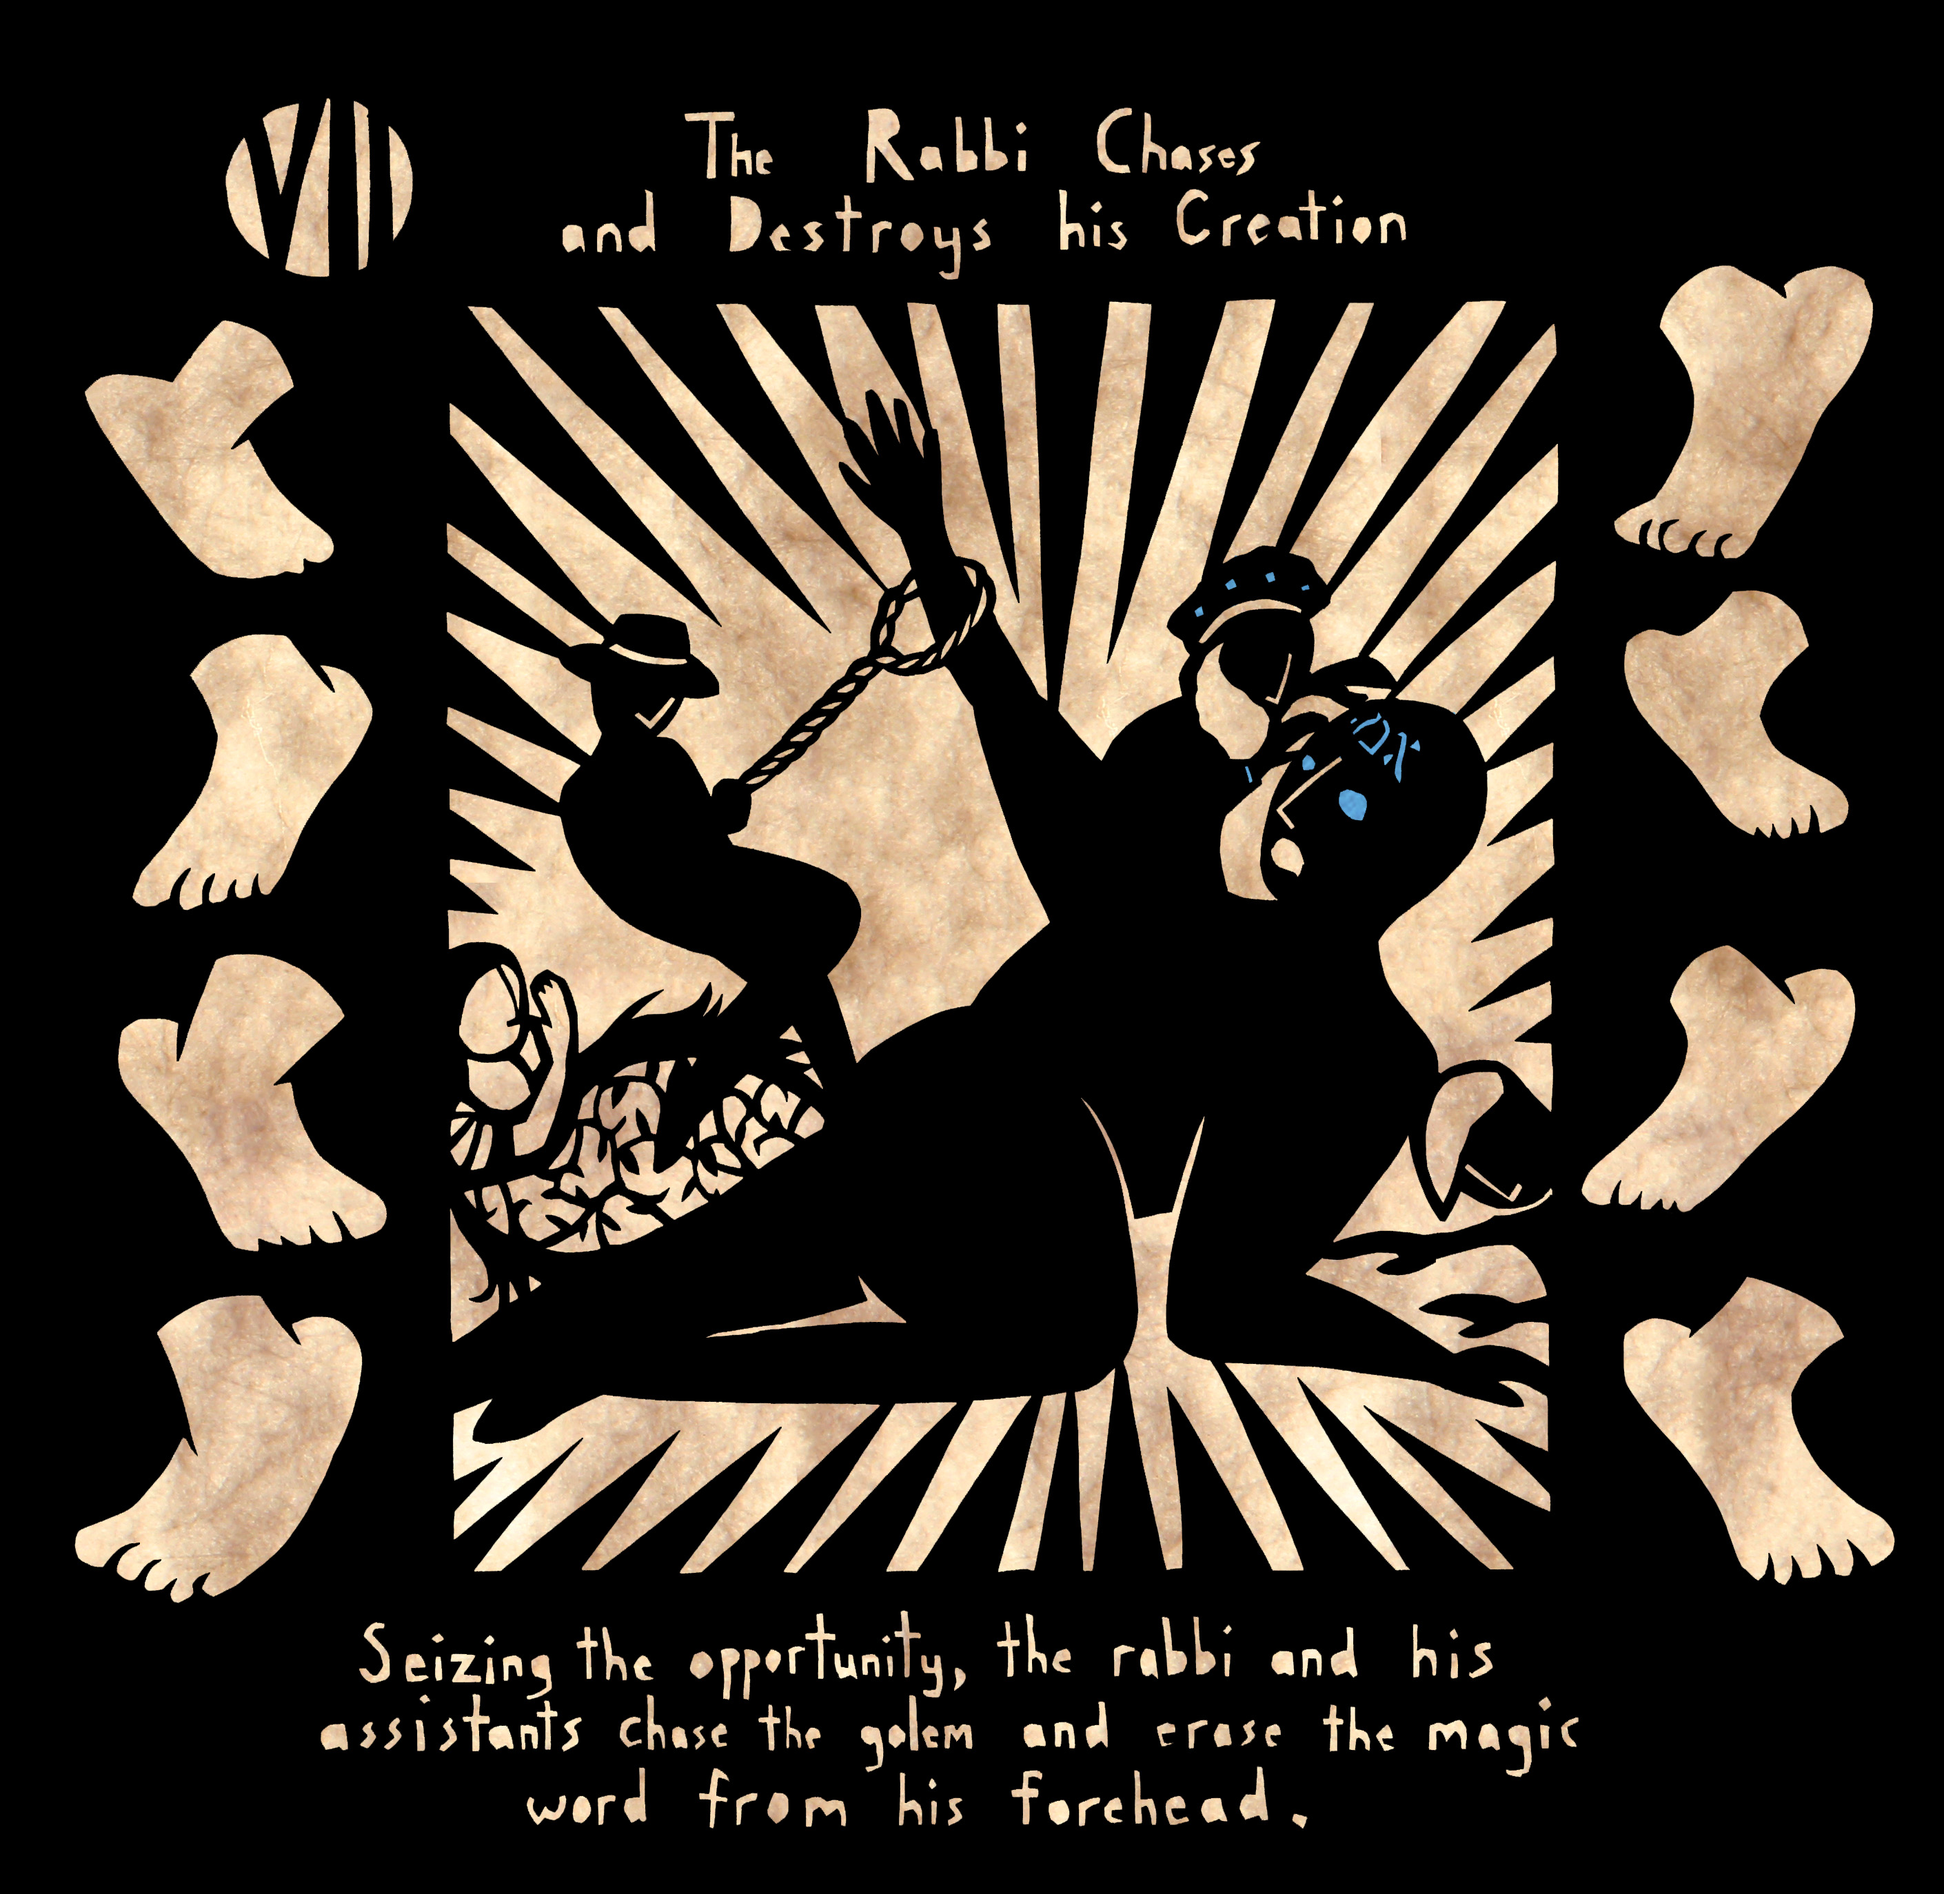
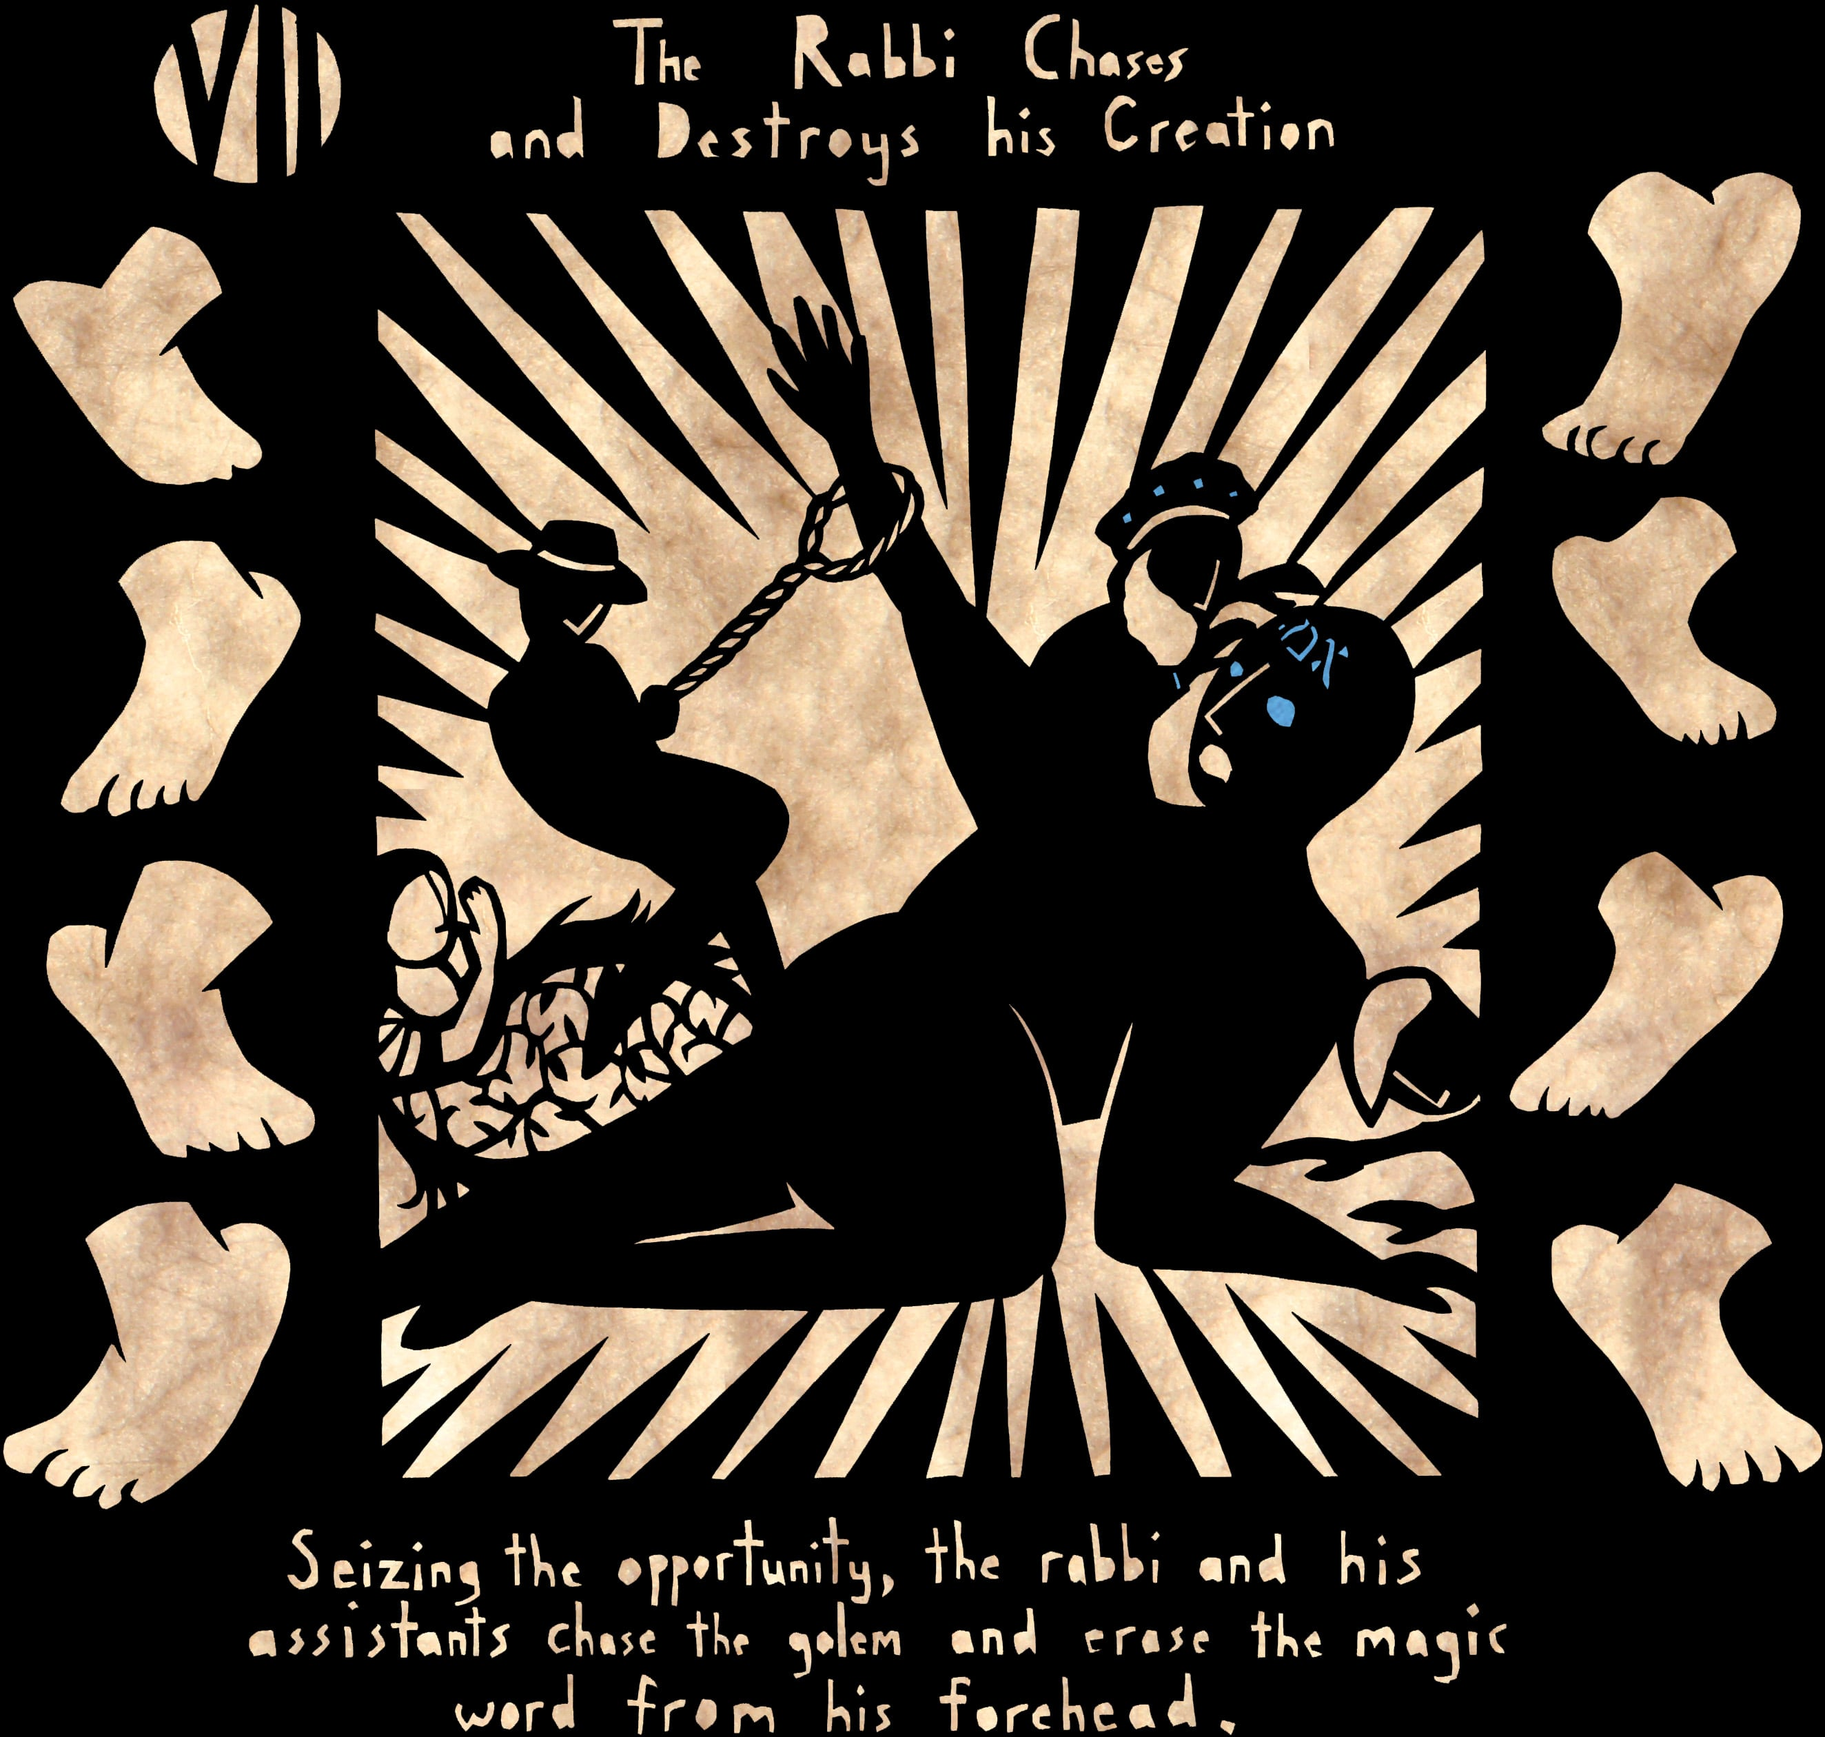
Change from dots to numerals and trim the panel assets

diff --git a/src/assets.js b/src/assets.js
@@ -1,0 +1,94 @@
+const SQUARESPACE_SONGS = [
+  {
+    name: "In Darkness, a Rabbi's Prayer",
+    audioUrl: "https://static1.squarespace.com/static/5457d939e4b0d5b75c105e2f/t/6667dd89490aca5d53b5ab95/1718082960021/1.mp3/original/1.mp3",
+    imageUrl: "https://images.squarespace-cdn.com/content/v1/5457d939e4b0d5b75c105e2f/15cfd1e3-85f7-4788-8f5d-b0f521b4808f/1.jpg?format=2500w",
+  },
+  {
+    name: "A Mysterious Stranger With An Extraordinary Idea",
+    audioUrl: "https://static1.squarespace.com/static/5457d939e4b0d5b75c105e2f/t/6667f1859338655ff42489c0/1718088074006/2.mp3/original/2.mp3",
+    imageUrl: "https://images.squarespace-cdn.com/content/v1/5457d939e4b0d5b75c105e2f/1957dae0-06c2-4751-9e29-1b8622cb936e/2.jpg?format=2500w"
+  },
+]
+
+const SQUARESPACE_MEDIA = {
+  cover: "https://images.squarespace-cdn.com/content/v1/5457d939e4b0d5b75c105e2f/1718089684782-CP1H25GQEBIG78E5HG11/cover.jpg?format=2500",
+  next: "/static/images/next.jpg",
+  play: "/static/images/play.jpg",
+  prev: "/static/images/prev.jpg",
+  pause: "/static/images/pause.jpg",
+}
+
+const STATIC_SONGS = [
+  {
+    name: "In Darkness, a Rabbi's Prayer",
+    audioUrl: "static/songs/1.mp3",
+    imageUrl: "static/images/1.jpg",
+    numeral: "static/images/numeral-1.png",
+  },
+  {
+    name: "A Mysterious Stranger With An Extraordinary Idea",
+    audioUrl: "static/songs/2.mp3",
+    imageUrl: "static/images/2.jpg",
+    numeral: "static/images/numeral-2.png",
+  },
+  {
+    name: "Gathering Clay, Making a Man",
+    audioUrl: "static/songs/3.mp3",
+    imageUrl: "static/images/3.jpg",
+    numeral: "static/images/numeral-3.png",
+  },
+  {
+    name: "Awakening Life With a Word",
+    audioUrl: "static/songs/4.mp3",
+    imageUrl: "static/images/4.jpg",
+    numeral: "static/images/numeral-4.png",
+  },
+  {
+    name: "A Power Too Great To Control",
+    audioUrl: "static/songs/5.mp3",
+    imageUrl: "static/images/5.jpg",
+    numeral: "static/images/numeral-5.png",
+  },
+  {
+    name: "The Golem Falls In Love",
+    audioUrl: "static/songs/6.mp3",
+    imageUrl: "static/images/6.jpg",
+    numeral: "static/images/numeral-6.png",
+  },
+  {
+    name: "The Rabbi Chases and Destroys His Creation",
+    audioUrl: "static/songs/7.mp3",
+    imageUrl: "static/images/7.jpg",
+    numeral: "static/images/numeral-7.png",
+  },
+  {
+    name: "Return To Mud",
+    audioUrl: "static/songs/8.mp3",
+    imageUrl: "static/images/8.jpg",
+    numeral: "static/images/numeral-8.png",
+  },
+]
+
+
+const STATIC_MEDIA = {
+  cover: "/static/images/cover.jpg",
+  next: "/static/images/next.png",
+  play: "/static/images/play.png",
+  prev: "/static/images/prev.png",
+  pause: "/static/images/pause.png",
+}
+
+export const GET_ASSETS = () => {
+  if (process.env.ASSET_TARGET === "squarespace") {
+    return {
+      SONGS: SQUARESPACE_SONGS,
+      MEDIA_URLS: SQUARESPACE_MEDIA,
+    }
+  }
+
+  return {
+    SONGS: STATIC_SONGS,
+    MEDIA_URLS: STATIC_MEDIA,
+  }
+}

diff --git a/src/index.ts b/src/index.ts
@@ -1,13 +1,8 @@
 import { Elm } from "./Main.elm";
-import { SONGS } from "./songs"
+import { GET_ASSETS } from "./assets"
 
-const MEDIA_URLS = {
-  cover: "https://images.squarespace-cdn.com/content/v1/5457d939e4b0d5b75c105e2f/1718089684782-CP1H25GQEBIG78E5HG11/cover.jpg?format=2500",
-  next: "/static/images/next.jpg",
-  play: "/static/images/play.jpg",
-  prev: "/static/images/prev.jpg",
-  pause: "/static/images/pause.jpg",
-}
+const { SONGS, MEDIA_URLS } = GET_ASSETS()
+
 
 const ELEMENT_ID = "golem-mount-point"
 
